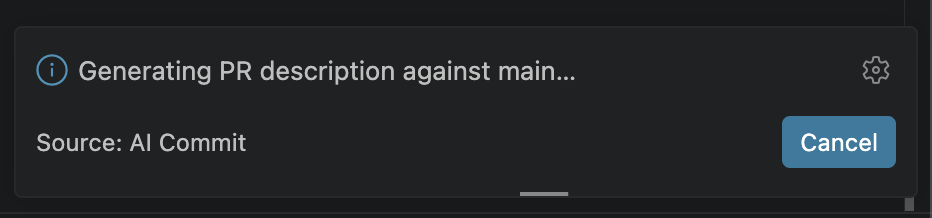
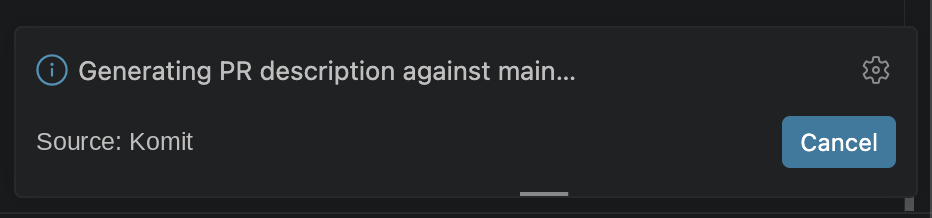
refactor: rename extension to komit and bump to 0.4.0
- Rename package, display name, commands, settings and menu group to
  the `komit.` prefix so they no longer clash with the aicommit extension
- Update README, CHANGELOG and vsix publish scripts to the new name, and
  read repository prompts from `.komit.md` / `.komit-pr.md`
- Refresh showcase screenshots and add a commit-button shot; trim the
  provider table to shipped profiles and ignore `.DS_Store`

Changed region(s): [[0.0311, 0.6055, 0.28, 0.7156]]

diff --git a/README.md b/README.md
@@ -1,4 +1,4 @@
-# AI Commit
+# Komit
 
 Commit messages and PR descriptions written from your actual changes, using whatever AI provider you already have.
 
@@ -20,55 +20,58 @@ feat(PAP-51): add commit message generation
 ## Getting started
 
 1. Stage some changes.
-2. Click the AI Commit icon in the Source Control toolbar, just above the commit box.
-3. Pick a provider. Any AI CLI already on your `PATH` (`claude`, `codex`, `gemini`, `opencode`) shows up first and needs no API key, because it uses the CLI's own login.
+2. Click the Komit icon in the Source Control toolbar, just above the commit box. It is the git-commit icon, a circle on a line, and its tooltip reads **Komit: Generate Commit Message**.
+
+   ![The Komit button in the Source Control toolbar](https://raw.githubusercontent.com/ariefsn/vsce-aicommit/main/assets/showcase/commit-button.png)
+
+3. Pick a provider. Any AI CLI already on your `PATH` (`claude`, `codex`, `gemini`, `opencode`) shows up first and needs no API key, because it uses the CLI's own login. The ones you do not have sit lower in the list, under **CLI agents (not detected on PATH)**.
 
    ![Choosing a provider on first run](https://raw.githubusercontent.com/ariefsn/vsce-aicommit/main/assets/showcase/select-provider-engine.png)
 
 4. The message lands in the commit box. Edit it if you want, then commit.
 
-If the message misses the point, run **AI Commit: Regenerate Commit Message**. It asks again for a different take on the same changes.
+If the message misses the point, run **Komit: Regenerate Commit Message**. It asks again for a different take on the same changes.
 
 Nothing below this line is required.
 
 ## Commands
 
-- AI Commit: Generate Commit Message
+- Komit: Generate Commit Message
   > Write a message from the staged changes. This is what the toolbar button runs.
-- AI Commit: Regenerate Commit Message
+- Komit: Regenerate Commit Message
   > Ask again for a different take.
-- AI Commit: Generate PR Description
+- Komit: Generate PR Description
   > Write a PR title and description for the whole branch.
-- AI Commit: Configure
+- Komit: Configure
   > Every setting in one list, each showing its current value.
-- AI Commit: Select Provider
+- Komit: Select Provider
   > Switch providers, or add one.
-- AI Commit: Select Model
+- Komit: Select Model
   > Pick a model for the active provider.
-- AI Commit: Edit Prompt
+- Komit: Edit Prompt
   > Customize the instructions, for you or for the repository.
-- AI Commit: Edit Signature
+- Komit: Edit Signature
   > Add trailers such as `Co-authored-by`.
-- AI Commit: Open Settings
+- Komit: Open Settings
   > Jump to the settings page.
 
-![The AI Commit commands in the Command Palette](https://raw.githubusercontent.com/ariefsn/vsce-aicommit/main/assets/showcase/pr-generation.png)
+![The Komit commands in the Command Palette](https://raw.githubusercontent.com/ariefsn/vsce-aicommit/main/assets/showcase/pr-generation.png)
 
 ## Providers
 
 | Class | How it talks | Auth | Works with |
 | --- | --- | --- | --- |
 | `cli` | Spawns the binary, context over stdin | The CLI's own login, so no API key | `claude`, `codex`, `gemini`, `opencode` |
-| `openai` | `POST {baseUrl}/chat/completions` | Bearer token | OpenAI, OpenRouter, Groq, DeepSeek, GLM (Zhipu), SumoPod, Together, Ollama, LM Studio, vLLM |
+| `openai` | `POST {baseUrl}/chat/completions` | Bearer token | OpenAI, OpenRouter, Groq, DeepSeek, GLM (Zhipu), SumoPod, Ollama, LM Studio |
 | `anthropic` | `POST {baseUrl}/v1/messages` | `x-api-key` | Anthropic API |
 
-The `openai` class takes any base URL, so any OpenAI-compatible endpoint works even if it is not in the list. Add one through **AI Commit: Select Provider → Add custom provider…**
+Those are the profiles that ship ready to use. The `openai` class takes any base URL, though, so anything OpenAI-compatible works too, Together and vLLM included. Add one through **Komit: Select Provider → Add custom provider…**
 
 Keep as many as you like and switch in one command. A cheap fast model for routine commits, something stronger when it matters.
 
 ![Switching the active provider](https://raw.githubusercontent.com/ariefsn/vsce-aicommit/main/assets/showcase/select-provider.png)
 
-Defaults aim at the cheapest model that still writes something good. Change it with **AI Commit: Select Model**, which lists whatever the provider offers:
+Defaults aim at the cheapest model that still writes something good. Change it with **Komit: Select Model**, which lists whatever the provider offers:
 
 ![Picking a model](https://raw.githubusercontent.com/ariefsn/vsce-aicommit/main/assets/showcase/select-model.png)
 
@@ -76,7 +79,7 @@ If an endpoint has no model catalogue, the picker quietly falls back to typing t
 
 ## PR descriptions
 
-**AI Commit: Generate PR Description** writes the title and body for a whole branch, opens it in a Markdown editor and copies it to the clipboard, so it works with the GitHub web UI, the `gh` CLI, or anything else.
+**Komit: Generate PR Description** writes the title and body for a whole branch, opens it in a Markdown editor and copies it to the clipboard, so it works with the GitHub web UI, the `gh` CLI, or anything else.
 
 ```markdown
 feat(PAP-51): rework auth with token refresh
@@ -97,7 +100,7 @@ It reads your commits for the story, the file summary for scope, and the diff fo
 
 The diff comes from the merge base (`base...HEAD`), so anything that landed on the base branch after you branched off stays out of your description.
 
-Base branch detection tries `origin/HEAD`, then `main`, `master` and `develop`. Pin it with `aicommit.baseBranch` if that guesses wrong. Whichever branch it picks gets named in the progress message, so a bad guess is visible rather than silent:
+Base branch detection tries `origin/HEAD`, then `main`, `master` and `develop`. Pin it with `komit.baseBranch` if that guesses wrong. Whichever branch it picks gets named in the progress message, so a bad guess is visible rather than silent:
 
 ![Progress notification naming the base branch](https://raw.githubusercontent.com/ariefsn/vsce-aicommit/main/assets/showcase/pr-generation-start.png)
 
@@ -107,8 +110,8 @@ If your repository has a `.github/pull_request_template.md`, that structure gets
 
 Three routes, all equivalent:
 
-- **AI Commit: Configure** puts every setting in one list, with a scope switch at the top for user against workspace.
-- **Settings UI**, searching for "AI Commit".
+- **Komit: Configure** puts every setting in one list, with a scope switch at the top for user against workspace.
+- **Settings UI**, searching for "Komit".
 - **`settings.json`** directly.
 
 Workspace settings give you per-repository values, so a work signature in one repo and a personal one in another needs nothing special.
@@ -123,7 +126,7 @@ If your branch names carry a ticket key, it becomes the scope on its own:
 | `feat/pap-51-add-login` | `feat(PAP-51): …`, uppercased |
 | `main` | `fix(providers): …`, falling back to the code area |
 
-The key gets pulled out of the branch name in code, so the model never has to guess at it. Adjust `aicommit.ticketPattern` for other trackers, or set `aicommit.scopeSource` to `ticket`, `path` or `none`.
+The key gets pulled out of the branch name in code, so the model never has to guess at it. Adjust `komit.ticketPattern` for other trackers, or set `komit.scopeSource` to `ticket`, `path` or `none`.
 
 ### Message length
 
@@ -131,20 +134,20 @@ Bullet counts and line lengths are settings, so you can tune the shape without r
 
 ```jsonc
 // one-line commits with no body
-"aicommit.limits.bodyBullets": [1],
+"komit.limits.bodyBullets": [1],
 
 // roomier PR descriptions
-"aicommit.limits.prChangesBullets": [4, 8]
+"komit.limits.prChangesBullets": [4, 8]
 ```
 
 A range like `[2, 4]` asks for two to four. A single number like `[3]` asks for exactly three.
 
 ### Signatures
 
-Add trailers with **AI Commit: Edit Signature**, which includes an option that reads your name and email straight from git config:
+Add trailers with **Komit: Edit Signature**, which includes an option that reads your name and email straight from git config:
 
 ```jsonc
-"aicommit.signature": [
+"komit.signature": [
   "Co-authored-by: Your Name <you@example.com>",
   "Refs: {{ticket}}"
 ]
@@ -154,7 +157,7 @@ They get appended after generation, so the text is always exact and the model ne
 
 ### Team conventions
 
-Put a prompt in `.aicommit.md` at the repository root and it travels with the repo, so every contributor with the extension writes messages the same way. **AI Commit: Edit Prompt → Create `.aicommit.md`** creates it pre-filled with the current template, so you have something to edit rather than a blank file.
+Put a prompt in `.komit.md` at the repository root and it travels with the repo, so every contributor with the extension writes messages the same way. **Komit: Edit Prompt → Create `.komit.md`** creates it pre-filled with the current template, so you have something to edit rather than a blank file.
 
 Templates support `{{diff}}`, `{{stat}}`, `{{recentCommits}}`, `{{branch}}`, `{{userHint}}`, `{{language}}`, `{{ticket}}` and `{{styleRules}}`.
 
@@ -162,52 +165,52 @@ Templates support `{{diff}}`, `{{stat}}`, `{{recentCommits}}`, `{{branch}}`, `{{
 
 ### Not using Conventional Commits?
 
-Set `aicommit.conventionalCommits` to `false`. Messages then follow the style of your existing commits instead of forcing a `type(scope):` prefix.
+Set `komit.conventionalCommits` to `false`. Messages then follow the style of your existing commits instead of forcing a `type(scope):` prefix.
 
 ## Settings
 
 ```jsonc
 {
   // Message shape
-  "aicommit.conventionalCommits": true,       // require a type(scope): prefix
-  "aicommit.commitTypes": [/* feat, fix, … */], // add your own, e.g. hotfix
-  "aicommit.bodyStyle": "bullets",            // bullets | prose | none
-  "aicommit.scopeSource": "auto",             // auto | ticket | path | none
-  "aicommit.ticketPattern": "[A-Za-z]{2,}[A-Za-z0-9]*-\\d+",
-  "aicommit.ticketUppercase": true,
-  "aicommit.language": "English",
+  "komit.conventionalCommits": true,       // require a type(scope): prefix
+  "komit.commitTypes": [/* feat, fix, … */], // add your own, e.g. hotfix
+  "komit.bodyStyle": "bullets",            // bullets | prose | none
+  "komit.scopeSource": "auto",             // auto | ticket | path | none
+  "komit.ticketPattern": "[A-Za-z]{2,}[A-Za-z0-9]*-\\d+",
+  "komit.ticketUppercase": true,
+  "komit.language": "English",
 
   // Length
-  "aicommit.limits.bodyBullets": [2, 4],
-  "aicommit.limits.prSummaryBullets": [1, 2],
-  "aicommit.limits.prChangesBullets": [3, 6],
-  "aicommit.limits.bulletChars": 80,
-  "aicommit.limits.subjectChars": 72,
+  "komit.limits.bodyBullets": [2, 4],
+  "komit.limits.prSummaryBullets": [1, 2],
+  "komit.limits.prChangesBullets": [3, 6],
+  "komit.limits.bulletChars": 80,
+  "komit.limits.subjectChars": 72,
 
   // Prompt and signature
-  "aicommit.prompt": "",                      // full template override
-  "aicommit.signature": [],                   // git trailers
+  "komit.prompt": "",                      // full template override
+  "komit.signature": [],                   // git trailers
 
   // PR descriptions
-  "aicommit.baseBranch": "",                  // empty means detect it
-  "aicommit.prPrompt": "",                    // PR template override
-  "aicommit.maxPrDiffBytes": 120000,          // branch diffs are bigger
+  "komit.baseBranch": "",                  // empty means detect it
+  "komit.prPrompt": "",                    // PR template override
+  "komit.maxPrDiffBytes": 120000,          // branch diffs are bigger
 
   // What gets sent
-  "aicommit.excludeGlobs": [/* secrets, lockfiles, generated, build output */],
-  "aicommit.excludeGlobs.additional": [],     // append instead of replacing
-  "aicommit.includeGlobs": [/* .env.example, … */],
-  "aicommit.recentCommitCount": 10,
-  "aicommit.maxDiffBytes": 60000,
+  "komit.excludeGlobs": [/* secrets, lockfiles, generated, build output */],
+  "komit.excludeGlobs.additional": [],     // append instead of replacing
+  "komit.includeGlobs": [/* .env.example, … */],
+  "komit.recentCommitCount": 10,
+  "komit.maxDiffBytes": 60000,
 
   // Behaviour
-  "aicommit.timeoutSeconds": 90,
-  "aicommit.overwriteExistingMessage": false, // false means refine what you typed
-  "aicommit.privacyNotice": "once",           // once | always | never
+  "komit.timeoutSeconds": 90,
+  "komit.overwriteExistingMessage": false, // false means refine what you typed
+  "komit.privacyNotice": "once",           // once | always | never
 
   // Providers, set through the commands rather than by hand
-  "aicommit.providers": [],
-  "aicommit.activeProvider": ""
+  "komit.providers": [],
+  "komit.activeProvider": ""
 }
 ```
 

diff --git a/CHANGELOG.md b/CHANGELOG.md
@@ -1,16 +1,23 @@
 # Change Log
 
+## [0.4.0]
+
+- Rename the extension to Komit, published as `ariefsn.komit`. The old name was already taken on the Marketplace
+- Move every setting and command to the `komit.` prefix, which also stops the settings clashing with the other extension named aicommit
+- Read repository prompts from `.komit.md` and `.komit-pr.md`
+- Ask for API keys once more, since the keychain entries moved with the prefix
+
 ## [0.3.1]
 
 - Use a codicon for the toolbar button, which fixes it sometimes rendering blank
-- Make bullet counts and line lengths configurable under `aicommit.limits`
+- Make bullet counts and line lengths configurable under `komit.limits`
 - Say "provider" everywhere instead of mixing it with "backend"
 
 ## [0.3.0]
 
 - Generate a PR title and description for the whole branch, opened in an editor and copied to the clipboard
 - Fill in `.github/pull_request_template.md` when the repository has one
-- Add `AI Commit: Regenerate Commit Message` for a different take
+- Add `Komit: Regenerate Commit Message` for a different take
 
 ## [0.2.1]
 
@@ -20,14 +27,14 @@
 
 - Use the ticket key from the branch name as the scope, e.g. `feat(PAP-51):`
 - Exclude `.env`, private keys and other secret files by default, while still sending `.env.example`
-- Add `AI Commit: Configure`, putting every setting in one place at user or workspace scope
+- Add `Komit: Configure`, putting every setting in one place at user or workspace scope
 - Make the privacy notice configurable: once, always, or never
 - Drop trailers whose variables resolve to nothing, instead of committing a bare `Refs:`
 
 ## [0.1.2]
 
 - Conventional Commits prefix and a bullet body by default, both configurable
-- Add `AI Commit: Edit Prompt` and `AI Commit: Edit Signature`
+- Add `Komit: Edit Prompt` and `Komit: Edit Signature`
 - Support git trailers such as `Co-authored-by`, appended exactly
 
 ## [0.1.1]
